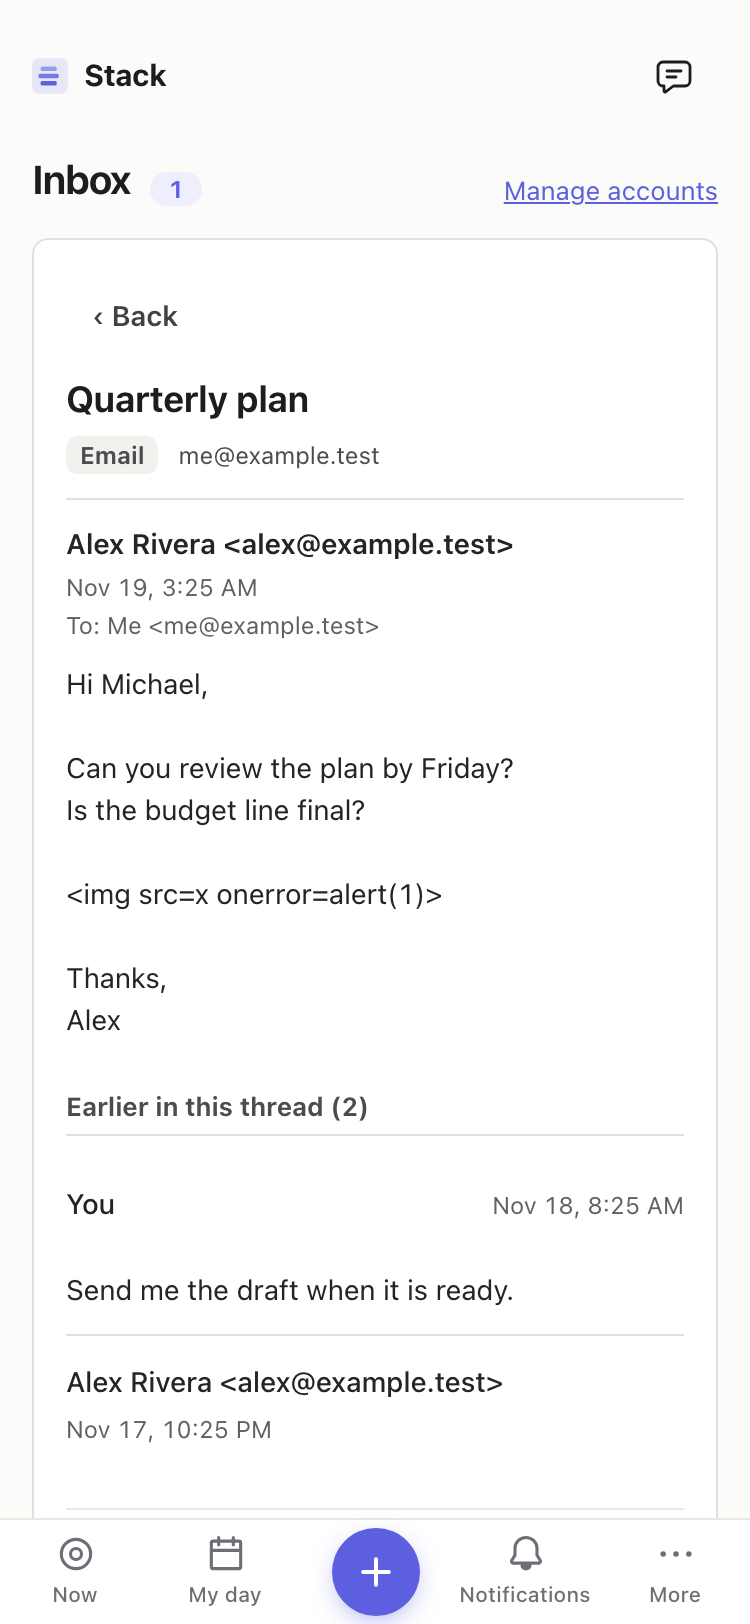
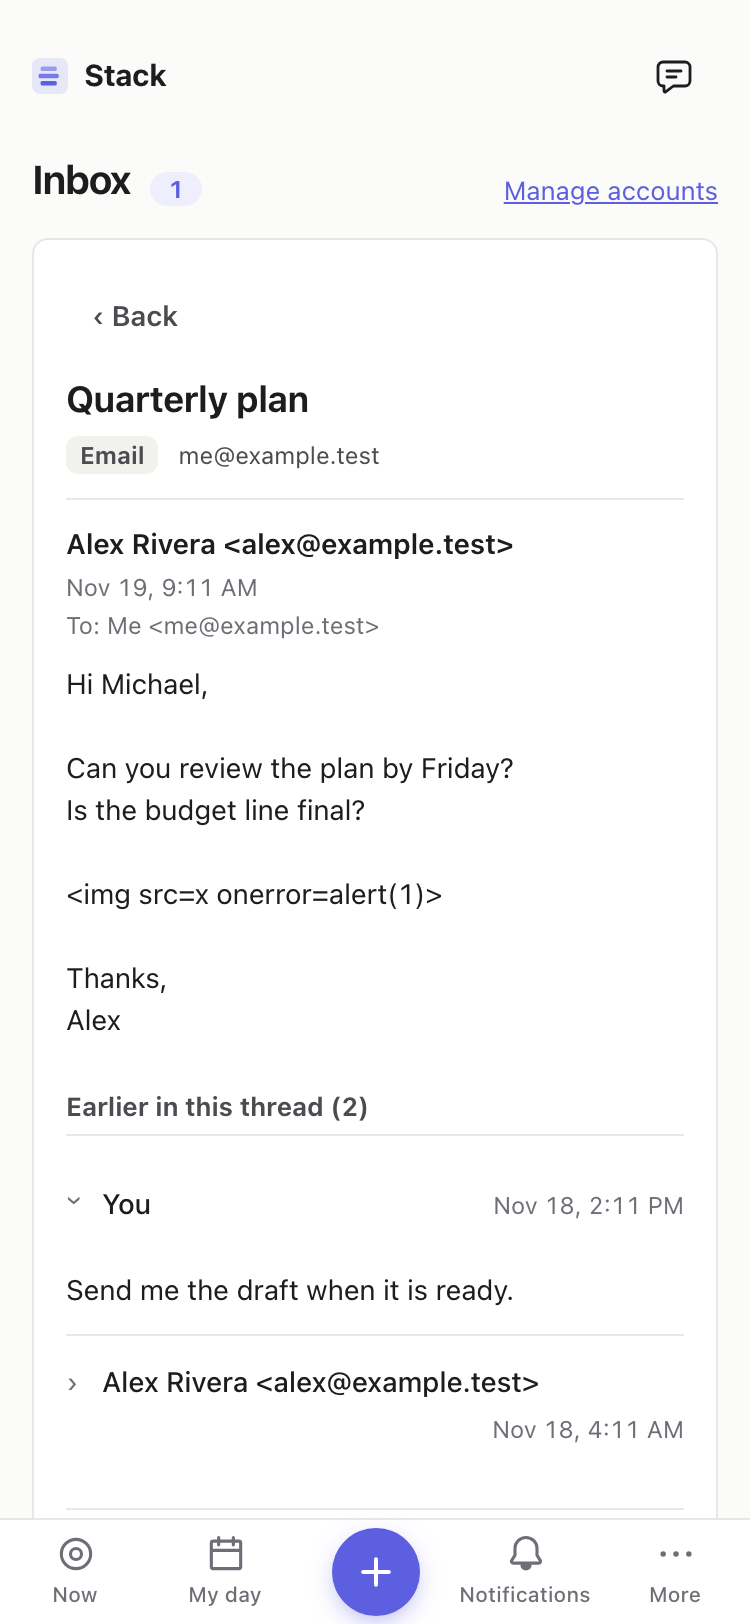
refactor(inbox-page): Name the thread component ThreadMessage and keep readers in the inbox module

diff --git a/src/inbox/detail.ts b/src/inbox/detail.ts
@@ -1,8 +1,6 @@
 /** The item detail: one message and its thread, read live and never stored. Types only. @req FR:inbox-page/detail.api */
-import type { Address } from '../email/types';
+import type { MailThread } from '../email/types';
 
-/** One message of a thread. `body` is plain text and untrusted data. */
-export interface MailMessage { id: string; from: Address; to: Address[]; subject: string; receivedAt: string; body: string; /** The owner sent it. @req FR:inbox-page/detail.thread.mine */ mine: boolean }
-export interface MailThread { message: MailMessage; /** The other messages, newest first. */ thread: MailMessage[] }
+export type { MailMessage, MailThread } from '../email/types';
 /** Reads one mailbox. Read only. @req FR:inbox-page/detail.read */
 export interface MailReader { thread(messageId: string): Promise<MailThread> }

diff --git a/src/email/types.ts b/src/email/types.ts
@@ -66,6 +66,11 @@ export interface TriageResult {
   draft?: { text: string; webLink: string; reused?: boolean; voice?: DraftVoice };
 }
 
+/** One message of a thread, for a reader. `body` is plain text and untrusted data. `mine`: the owner sent it. @req FR:inbox-page/detail.thread.mine */
+export interface MailMessage { id: string; from: Address; to: Address[]; subject: string; receivedAt: string; body: string; mine: boolean }
+/** A message and the other messages of its thread, newest first. */
+export interface MailThread { message: MailMessage; thread: MailMessage[] }
+
 export interface MailProvider {
   /** Messages changed since `cursor`, plus the next cursor. */
   delta(cursor?: string): Promise<{ messages: Message[]; cursor: string }>;

diff --git a/src/inbox/readers.ts b/src/inbox/readers.ts
@@ -4,9 +4,9 @@
  */
 import { accountCachePath, cacheDir, FileTokenCache, graphToken, hasScope } from '../graph/auth';
 import { graphTransport, timedFetch } from '../graph/transport';
-import type { MailReader } from '../inbox/detail';
-import { readThread } from './graph-mail';
-import { createGraphGuard } from './guard';
+import { readThread } from '../email/graph-mail';
+import { createGraphGuard } from '../email/guard';
+import type { MailReader } from './detail';
 
 /** `account` to its reader; undefined when the account has no sign-in with a mail scope on this machine. */
 export function createMailReaders(o: { dir?: string; fetch?: typeof fetch } = {}): (account: string) => Promise<MailReader | undefined> {

diff --git a/src/email/graph-mail.ts b/src/email/graph-mail.ts
@@ -5,8 +5,7 @@
 import { createReplyRequest } from './draft';
 import { createGraphGuard, GRAPH_BASE, type GraphGuard, type Transport } from './guard';
 import type { MailActions } from './hygiene';
-import type { MailMessage, MailThread } from '../inbox/detail';
-import type { Address, MailProvider, Message } from './types';
+import type { Address, MailMessage, MailProvider, MailThread, Message } from './types';
 import type { SentMessage } from './voice';
 
 const SELECT = 'id,conversationId,subject,from,receivedDateTime,bodyPreview,webLink,isRead';

diff --git a/src/cli/web.ts b/src/cli/web.ts
@@ -24,7 +24,7 @@ import { dirname, extname, join, normalize, relative, resolve, sep } from 'path'
 import { createApiHandler } from '../api/handler';
 import type { AppUpdater } from '../core/app-update';
 import { createClaudeJson } from '../email/llm';
-import { createMailReaders } from '../email/readers';
+import { createMailReaders } from '../inbox/readers';
 import type { MailReader } from '../inbox/detail';
 import { createGitHubPrs, githubRepos } from '../api/github';
 import { createLazyPrPage, createPrPage } from '../api/pr-page';

diff --git a/tests/inbox/readers.test.ts b/tests/inbox/readers.test.ts
@@ -1,7 +1,7 @@
 import { mkdtempSync } from 'fs';
 import { tmpdir } from 'os';
 import { join } from 'path';
-import { createMailReaders } from '../../src/email/readers';
+import { createMailReaders } from '../../src/inbox/readers';
 import { accountCachePath, FileTokenCache } from '../../src/graph/auth';
 
 const tok = { version: 1 as const, tenant: 'organizations', clientId: '11111111-1111-1111-1111-111111111111', refreshToken: 'r', accessToken: 'a', expiresAt: Date.now() + 3600_000 };

diff --git a/src/inbox/index.ts b/src/inbox/index.ts
@@ -10,3 +10,4 @@ export * from './runner';
 export * from './live';
 export * from './sources';
 export * from './detail';
+export * from './readers';

diff --git a/.xe/rollouts/rollout-inbox-detail.md b/.xe/rollouts/rollout-inbox-detail.md
@@ -48,7 +48,7 @@ Michael: Inbox "doesn't feel like email". Part 1 of 3: an item detail view (full
 #### inbox-page
 
 - [x] Spec `FR:detail.*`
-- [x] Tests first: `tests/email/read-thread.test.ts`, `tests/api/inbox-detail.test.ts`, `web/tests`, `web/e2e/inbox-detail.spec.ts`
+- [x] Tests first: `tests/email/read-thread.test.ts`, `tests/inbox/readers.test.ts`, `tests/api/inbox-detail.test.ts`, `web/tests`, `web/e2e/inbox-detail.spec.ts`
 - [x] `readThread` (guarded GET only), `GET /inbox-items/{id}/detail`, host wiring
 - [x] Web: split view, detail pane
 - [x] Screenshots at 375 px and desktop
